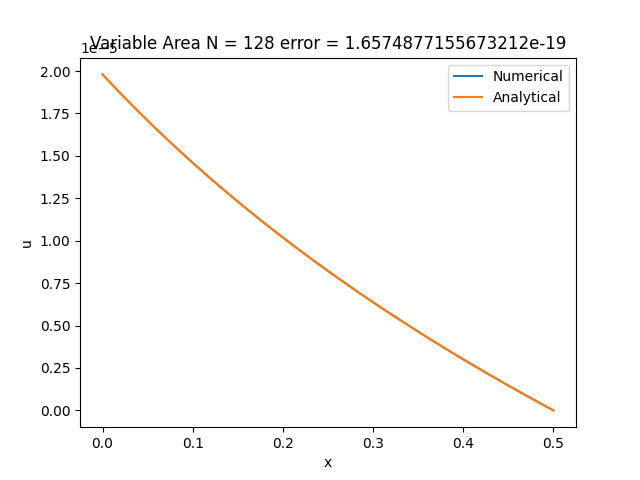
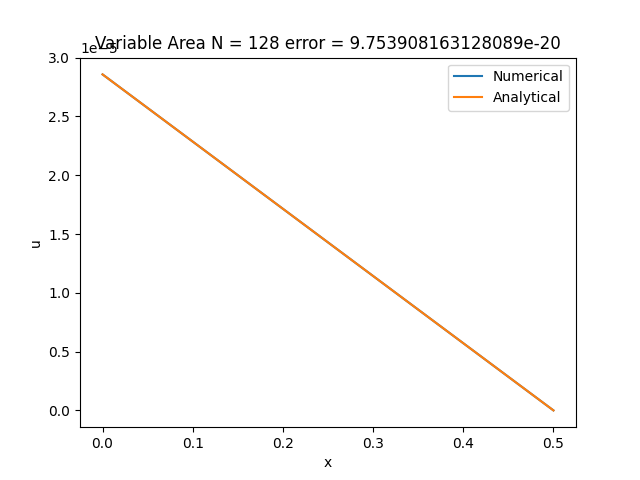
Added constant plots

diff --git a/pythonScripts/plot.py b/pythonScripts/plot.py
@@ -24,7 +24,7 @@ for line in f:
 
 X = np.array(X)
 Y = np.array(Y)
-Analytical_Y = variableArea(X)
+#Analytical_Y = variableArea(X)
 
 #print(Analytical_Y)
 
@@ -38,7 +38,7 @@ def constantArea(X):
 
 
 for n_ele in N:
-    os.system(f"./variable.out {n_ele}")
+    os.system(f"./constant.out {n_ele}")
     f = open("/home/abhishekj/projects/cs601pa2-karthikmurakonda/pythonScripts/file.txt")
     X = []
     Y = []
@@ -60,11 +60,11 @@ for n_ele in N:
     ax.set_xlabel('x')
     ax.set_ylabel('u')
 
-    Analytical_Y = variableArea(X)
+    Analytical_Y = constantArea(X)
     error = np.sum((Y-Analytical_Y)**2)
-    ax.set_title(f'Variable Area N = {n_ele} error = {error}')
+    ax.set_title(f'Constant Area N = {n_ele} error = {error}')
     ax.plot(X,Y, label=f'Numerical')
     ax.plot(X,Analytical_Y, label=f'Analytical')
     ax.legend() 
-    fig.savefig(f'Variable {n_ele}')
+    fig.savefig(f'Constant {n_ele}')
     print(X)

diff --git a/include/solution.hpp b/include/solution.hpp
@@ -61,7 +61,7 @@ namespace sol
     F(0,0) = P;
 
   // F.resize(N,1);
-    Eigen::MatrixXd newK = K.block(0,1,N,N);
+    Eigen::MatrixXd newK = K.block(0,0,N,N);
     Eigen::MatrixXd newF = F.block(0,0,N,1);
     // newF(0,0) = P;
      Eigen::MatrixXd U = newK.inverse()*newF;

diff --git a/src/main.cpp b/src/main.cpp
@@ -160,7 +160,7 @@ int main(int argc, char const *argv[])
     // file.close();
 
 
-    sol::constantsolution();
+    sol::constantsolution(N);
     
     
     
